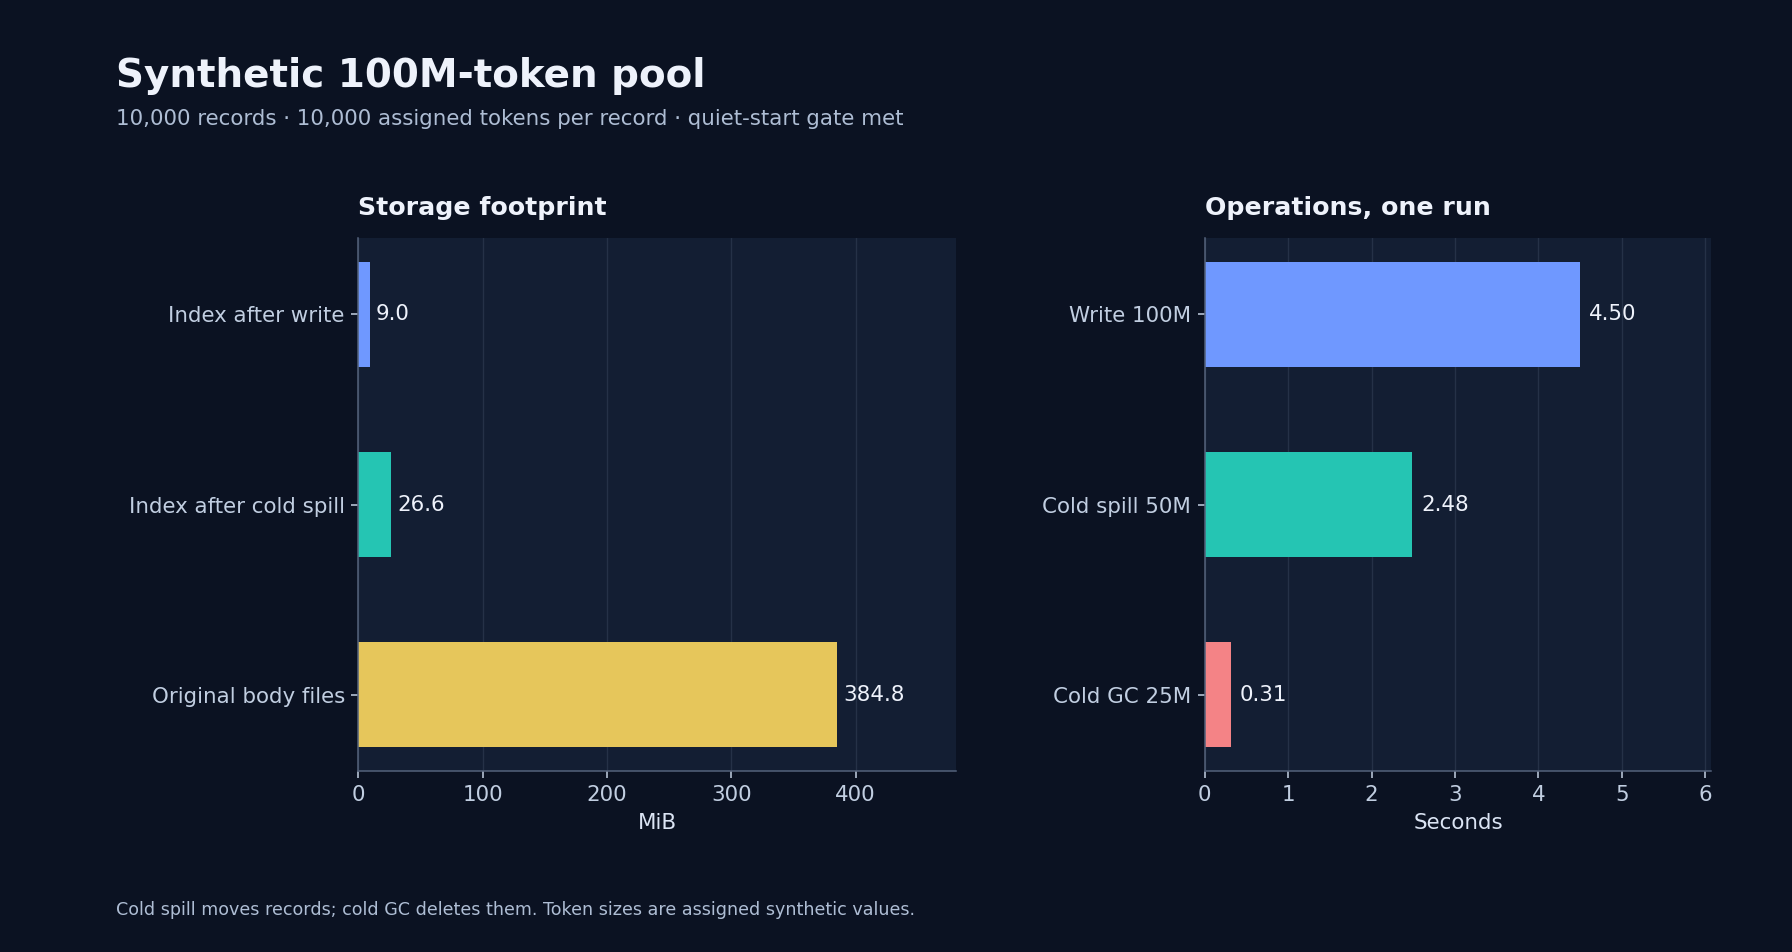
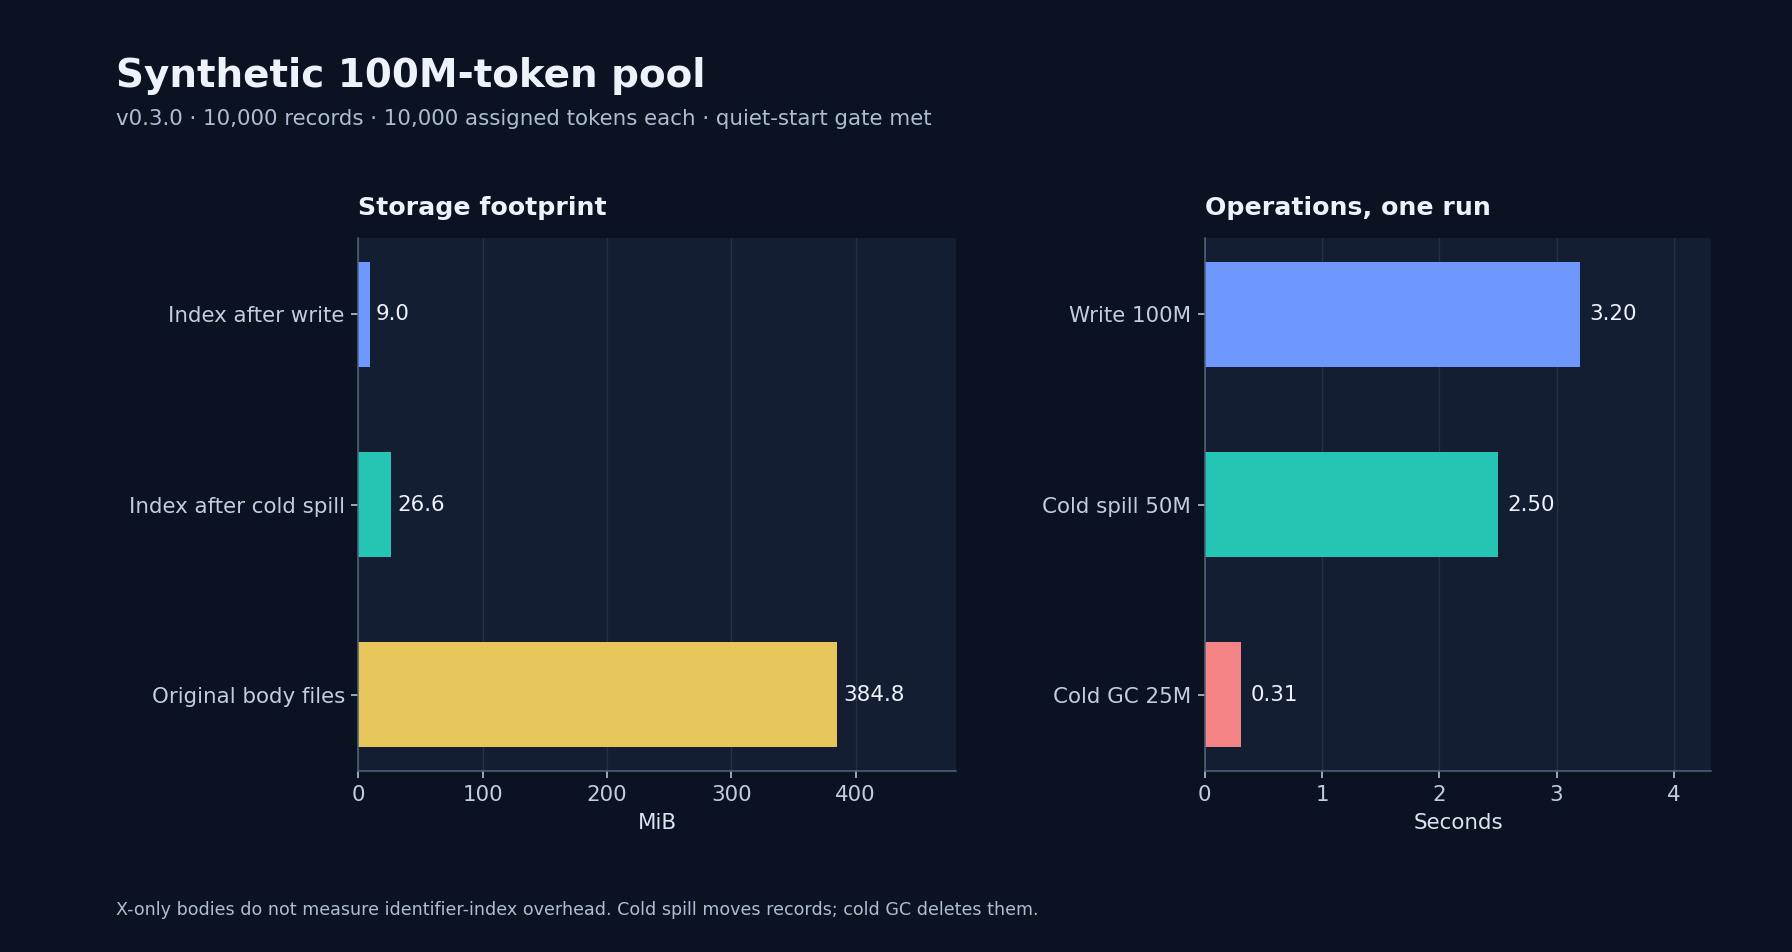
docs: rerun v0.3.0 benchmark under lower load

diff --git a/scripts/plot-benchmarks.py b/scripts/plot-benchmarks.py
@@ -146,7 +146,7 @@ save(fig, "cost-latency.png")
 
 # 100M-token synthetic pool: timed cold GC deletes the removed records.
 fig, axes = plt.subplots(1, 2, figsize=(12.8, 6.8), gridspec_kw={"width_ratios": [1.18, 1]})
-heading(fig, "Synthetic 100M-token pool", "10,000 records · 10,000 assigned tokens per record · quiet-start gate met")
+heading(fig, "Synthetic 100M-token pool", f"v{metadata['testedVersion']} · 10,000 records · 10,000 assigned tokens each · quiet-start gate met")
 fig.subplots_adjust(left=0.2, right=0.955, top=0.75, bottom=0.19, wspace=0.45)
 storage_names = ["Index after write", "Index after cold spill", "Original body files"]
 storage = [capacity["indexAfterWriteMiB"], capacity["indexAfterColdMiB"], capacity["bodyFilesMiB"]]
@@ -167,5 +167,5 @@ axes[1].set_xlim(0, max(operations) * 1.35)
 axes[1].set_xlabel("Seconds")
 for i, value in enumerate(operations):
     axes[1].text(value + max(operations) * 0.025, i, f"{value:.2f}", va="center", fontsize=11)
-footnote(fig, "Cold spill moves records; cold GC deletes them. Token sizes are assigned synthetic values.")
+footnote(fig, "X-only bodies do not measure identifier-index overhead. Cold spill moves records; cold GC deletes them.")
 save(fig, "capacity.png")

diff --git a/docs/benchmark.md b/docs/benchmark.md
@@ -3,29 +3,30 @@ title: Benchmark report
 layout: default
 ---
 
-# Benchmark report: synthetic long-horizon retrieval on v0.2.2
+# Benchmark report: synthetic long-horizon retrieval on v0.3.0
 
 This report reruns the published synthetic workloads against commit
-[`c4e2d38`](https://github.com/QiuXu-Tech/dsh-memory/commit/c4e2d381729e885c7d720713e325cc58938f4203)
+[`3373ec6`](https://github.com/QiuXu-Tech/dsh-memory/commit/3373ec6ed46ea3b571a798c95714bd5d226f1ddb)
 on 2026-10-29. The machine was an Apple M4 (10 logical CPUs, 16 GiB), running
 macOS 27.2 and Node 24.21.0. Before starting, two consecutive five-second
-samples met the quiet-start gate: CPU busy **14.6% / 14.7%** and one-minute
-load **9.96 / 9.24**. During the longer benchmark stages, six samples showed
-one-minute load **6.85–8.90** and CPU busy **22.2%–32.1%**, including the
+samples met the quiet-start gate: CPU busy **16.4% / 25.5%** and one-minute
+load **1.81 / 1.90**. During the longer benchmark stages, six samples showed
+one-minute load **2.39–3.49** and CPU busy **26.7%–36.8%**, including the
 benchmark itself. Sampling intervals can cross stage boundaries; short stages
 may have no dedicated sample. The machine was shared, not isolated. The
 [run metadata](assets/benchmarks/run-metadata.json) and
 [load samples](assets/benchmarks/results-load-samples.jsonl) record the method,
 tested commit and input hashes.
 
-The execution checkout was `41b47e4`, a report-only descendant of v0.2.2;
-its package and test trees and the three benchmark scripts matched `c4e2d38`.
-GitHub `main` advanced to v0.3.0 during this work; these measurements do not
-evaluate v0.3.0.
+The execution checkout was `8d5a6f2`, a report-only descendant of v0.3.0;
+its package and test trees and the three benchmark scripts matched `3373ec6`.
+GitHub `main` advanced to v0.3.1 during this work; these measurements do not
+evaluate v0.3.1.
 
-The earlier [v0.2.1 report and its high-load measurements](https://github.com/QiuXu-Tech/dsh-memory/blob/41b47e43f0f58b6d46dfe1cfe7baae1630c6a242/docs/benchmark.md)
-remain in Git history. The two runs were not conducted under comparable load,
-so their timing differences do not establish a version performance change.
+The earlier [v0.2.1 report](https://github.com/QiuXu-Tech/dsh-memory/blob/41b47e43f0f58b6d46dfe1cfe7baae1630c6a242/docs/benchmark.md)
+and [v0.2.2 report](https://github.com/QiuXu-Tech/dsh-memory/blob/8d5a6f2a93da5b838ef60f1a21853f4e388b62b5/docs/benchmark.md)
+remain in Git history. These were separate shared-machine runs, so their timing
+differences alone do not establish a version performance change.
 
 **Result in brief:** in a synthetic 160K-token history with an 80K-token
 window, 20/40 target facts were present in the retained tail and 24/40 were
@@ -69,9 +70,9 @@ one simulated baseline, not a run of DSH's native compaction implementation.
 
 | Estimated history | Records | Window / history | Search hit@5, both runs | Search p50, first / repeat |
 |---|---:|---:|---:|---:|
-| 1,000,811 tokens | 667 | 99.9% | 40/40 (100%) | 1.33 / 1.33 ms |
-| 5,004,369 tokens | 3,333 | 20.0% | 40/40 (100%) | 13.32 / 13.28 ms |
-| 10,011,439 tokens | 6,667 | 10.0% | 40/40 (100%) | 27.89 / 27.63 ms |
+| 1,000,811 tokens | 667 | 99.9% | 40/40 (100%) | 1.63 / 1.65 ms |
+| 5,004,369 tokens | 3,333 | 20.0% | 40/40 (100%) | 15.74 / 15.62 ms |
+| 10,011,439 tokens | 6,667 | 10.0% | 40/40 (100%) | 33.00 / 31.36 ms |
 
 The window/history column is an arithmetic coverage ratio, not measured
 no-memory recall and not a universal ceiling. Actual availability depends on
@@ -83,8 +84,8 @@ answers correctly.
 
 ![Search medians at three scales and two repeated 160K runs](assets/benchmarks/cost-latency.png)
 
-The 160K comparison's search p50 was **1.20 ms** on the first run and
-**1.18 ms** on a repeat with the same fixture and supplied summary. Each p50 is
+The 160K comparison's search p50 was **1.78 ms** on the first run and
+**1.73 ms** on a repeat with the same fixture and supplied summary. Each p50 is
 the median of 40 searches. The scaling sweep was also repeated; two runs on a
 shared machine are not enough to establish a latency distribution or
 production performance.
@@ -107,14 +108,20 @@ corpus. The two runs use different cold target ratios to reproduce the prior
 
 | Pool | Write | Cold spill | Cold GC |
 |---|---:|---:|---:|
-| 1,000 records / 10M assigned tokens | 0.4 s | 700 records / 7M tokens in 0.32 s | 350 records / 3.5M tokens in 0.03 s |
-| 10,000 records / 100M assigned tokens | 4.5 s | 5,000 records / 50M tokens in 2.48 s | 2,500 records / 25M tokens in 0.31 s |
+| 1,000 records / 10M assigned tokens | 0.4 s | 700 records / 7M tokens in 0.33 s | 350 records / 3.5M tokens in 0.03 s |
+| 10,000 records / 100M assigned tokens | 3.2 s | 5,000 records / 50M tokens in 2.50 s | 2,500 records / 25M tokens in 0.31 s |
 
 In the 100M run, the SQLite index was 9.0 MiB after writing and 26.6 MiB after
 cold spill; the original body files totalled 384.8 MiB. Cold spill moves the
 records, while **cold GC deletes** the records it removes. Both were exercised
 only on throwaway stores. These are single-run times under the sampled load
 noted above.
+
+The fixture's bodies consist only of repeated `x` characters. A separate
+[one-record spot check](assets/benchmarks/results-body-index-probe.json)
+produced zero `record_terms` rows for that body. These capacity and index-size
+figures therefore do not measure the overhead of indexing identifier-bearing
+real-world bodies introduced in v0.3.0.
 
 ## 5. Complementary recall suite
 
@@ -128,18 +135,22 @@ The earlier 95% hit@5 figure came from a private, curated 40-question archive.
 It was **not rerun** here and cannot be independently reproduced from the
 public fixtures. See [evaluation](https://github.com/QiuXu-Tech/dsh-memory/blob/main/docs/evaluation.md) for its historical context.
 
+The v0.3.0 offline harness also passed [U13](https://github.com/QiuXu-Tech/dsh-memory/blob/3373ec6ed46ea3b571a798c95714bd5d226f1ddb/test/run.mjs#L3849),
+a separate hot-body identifier-rescue test. Its assertions require at least
+24/30 hit@1 and 27/30 hit@5 and check identifier boundaries; the actual counts
+are not printed, and this is not a latency benchmark.
+
 ## Scope and limitations
 
 - All measured searches here call `LocalStoreCore` with default rerank
-  weights. They do not benchmark v0.2.2's model-specific `AgentMemory`
+  weights. They do not benchmark v0.3.0's model-specific `AgentMemory`
   profiles, MCP/DSH integration, transcript capture, or an agent's end-to-end
   answers. The offline tests cover some of those code paths but are not an
   agent benchmark.
 - Exact synthetic cues and prefilled card summaries make these retrieval
   probes easier to locate than many real project questions. The results do not
   establish recall on paraphrases, multi-hop tasks, or missing cues. The
-  separate [body-only retrieval findings documented in v0.2.2](https://github.com/QiuXu-Tech/dsh-memory/blob/c4e2d381729e885c7d720713e325cc58938f4203/docs/optimization-findings.md)
-  were not rerun by this benchmark.
+  long-horizon fixture itself does not isolate the new hot-body rescue path.
 - Timings were collected on a shared machine after the quiet-start gate, with
   five-second load samples during longer stages; this is not full isolation.
   The capacity script prints a `p95` from
@@ -156,9 +167,9 @@ remove throwaway stores. The summary must be passed explicitly for the
 comparison.
 
 ```bash
-git clone https://github.com/QiuXu-Tech/dsh-memory.git dsh-memory-benchmark-v022
-cd dsh-memory-benchmark-v022
-git checkout --detach c4e2d381729e885c7d720713e325cc58938f4203
+git clone https://github.com/QiuXu-Tech/dsh-memory.git dsh-memory-benchmark-v030
+cd dsh-memory-benchmark-v030
+git checkout --detach 3373ec6ed46ea3b571a798c95714bd5d226f1ddb
 out_dir="$(mktemp -d "${TMPDIR:-/tmp}/dsh-benchmark.XXXXXX")"
 node --import ./test/register.mjs scripts/long-horizon-eval.mjs --mode compaction \
   --tokens 160000 --window 80000 --summary docs/assets/benchmarks/compaction-summary.txt \

diff --git a/README.md b/README.md
@@ -15,7 +15,7 @@ It started as a [DeepSeek Harness](https://github.com/deepseek-ai) plugin and is
 | **Gemini CLI, Cursor, Cline, Windsurf, Zed, …** | one stdio MCP server (`packages/dsh-memory-mcp`), 7 tools + catalog resource |
 | **Any HTTP agent** | the same core can be embedded (`@qiuxu/dsh-memory-core`) |
 
-> Status: **0.3.0** — agent-agnostic core, MCP server, hot-body rescue, Claude Code/Codex adapters, **13 model families** (Claude / GPT / Gemini / DeepSeek / Qwen / Kimi / GLM / Grok / Command / Gemma / Phi / Llama / generic), 112/112 offline tests. DSH `0.2.1-rc.3` for DSH mode; any MCP-capable agent otherwise. No telemetry, everything stays on your machine.
+> Status: **0.3.1** — agent-agnostic core, MCP server, hot-body rescue, Claude Code/Codex adapters, **13 model families** (Claude / GPT / Gemini / DeepSeek / Qwen / Kimi / GLM / Grok / Command / Gemma / Phi / Llama / generic), 112/112 offline tests. DSH `0.2.1-rc.3` for DSH mode; any MCP-capable agent otherwise. No telemetry, everything stays on your machine.
 
 ## Why
 
@@ -166,11 +166,11 @@ HTTP API: `GET /api/memory.index|record|search|metrics`, `POST /api/memory.statu
 | Metric | Result |
 |---|---|
 | Historical private archive (40 curated questions; not rerun) | reported hit@5 **95%** (baseline 67%); not reproducible from the public fixture |
-| Synthetic recall suite (v0.2.2 rerun) | 80/80 target-record hits at rank 1 |
-| 10k records / 100M assigned tokens (v0.2.2, synthetic, quiet-start gate) | write 4.5 s; cold spill 5,000 records/50M tokens in 2.48 s; cold GC 2,500 records/25M tokens in 0.31 s |
-| FTS storage (body-less card+abstract index) | Synthetic v0.2.2 100M-token pool: 9.0 MiB after writing, 26.6 MiB after cold spill |
+| Synthetic recall suite (v0.3.0 rerun) | 80/80 target-record hits at rank 1 |
+| 10k records / 100M assigned tokens (v0.3.0, synthetic, quiet-start gate) | write 3.2 s; cold spill 5,000 records/50M tokens in 2.50 s; cold GC 2,500 records/25M tokens in 0.31 s |
+| FTS storage (body-less card+abstract index) | Synthetic v0.3.0 100M-token pool: 9.0 MiB after writing, 26.6 MiB after cold spill; x-only bodies do not measure identifier-index overhead |
 
-**Synthetic 160K history / 80K window, on v0.2.2:** the retained tail made 20/40 target facts available; the previously supplied summary plus tail made 24/40 available. dsh-memory search returned the target record for 40/40 probes. These are availability and retrieval checks, not end-to-end answer accuracy. Full charts, timing conditions and methodology: **[docs/benchmark.md](docs/benchmark.md)**. Recent experiments and the optimization backlog: [docs/optimization-findings.md](docs/optimization-findings.md).
+**Synthetic 160K history / 80K window, on v0.3.0:** the retained tail made 20/40 target facts available; the previously supplied summary plus tail made 24/40 available. dsh-memory search returned the target record for 40/40 probes. These are availability and retrieval checks, not end-to-end answer accuracy. Full charts, timing conditions and methodology: **[docs/benchmark.md](docs/benchmark.md)**. Recent experiments and the optimization backlog: [docs/optimization-findings.md](docs/optimization-findings.md).
 
 Reproduction commands, including the required saved summary and cold target ratios, are in [docs/benchmark.md](docs/benchmark.md). Additional context is in [docs/evaluation.md](docs/evaluation.md).
 

diff --git a/docs/evaluation.md b/docs/evaluation.md
@@ -5,8 +5,8 @@ layout: default
 
 # Evaluation
 
-The public synthetic workloads were rerun on v0.2.2, commit
-[`c4e2d38`](https://github.com/QiuXu-Tech/dsh-memory/commit/c4e2d381729e885c7d720713e325cc58938f4203),
+The public synthetic workloads were rerun on v0.3.0, commit
+[`3373ec6`](https://github.com/QiuXu-Tech/dsh-memory/commit/3373ec6ed46ea3b571a798c95714bd5d226f1ddb),
 on 2026-10-29. The Apple M4 / Node 24.21.0 machine met a quiet-start gate;
 it remained shared and load was sampled during the longer stages. See the
 [benchmark report](https://github.com/QiuXu-Tech/dsh-memory/blob/main/docs/benchmark.md)
@@ -29,20 +29,22 @@ contains a cold record, so it is not evidence of cold-record retrieval.
 A previous run against a private, curated 40-question archive reported hit@1
 73%, hit@3/hit@5 95%, cold recall 100%, and search p50 1.3 ms; a prior
 baseline was reported as 67% hit@5. That archive and its raw probes are not
-public, and the run was **not repeated** for v0.2.2. These historical numbers
+public, and the run was **not repeated** for v0.3.0. These historical numbers
 cannot be independently reproduced using the public fixture.
 
 ## Capacity and storage
 
 | Synthetic pool | Write | Cold spill | Cold GC |
 |---|---:|---:|---:|
-| 1,000 records / 10M assigned tokens | 0.4 s | 700 records / 7M in 0.32 s | 350 records / 3.5M in 0.03 s |
-| 10,000 records / 100M assigned tokens | 4.5 s | 5,000 records / 50M in 2.48 s | 2,500 records / 25M in 0.31 s |
+| 1,000 records / 10M assigned tokens | 0.4 s | 700 records / 7M in 0.33 s | 350 records / 3.5M in 0.03 s |
+| 10,000 records / 100M assigned tokens | 3.2 s | 5,000 records / 50M in 2.50 s | 2,500 records / 25M in 0.31 s |
 
 The 100M run used 384.8 MiB of original body files and a 9.0 MiB SQLite index
 after writing, growing to 26.6 MiB after cold spill. Token counts are assigned
-synthetic values. Cold GC deletes the removed records. The read-path timings
-and raw output are included in the [benchmark report](https://github.com/QiuXu-Tech/dsh-memory/blob/main/docs/benchmark.md).
+synthetic values. The x-only bodies do not measure identifier-body index
+overhead; a one-record spot check produced zero `record_terms` rows. Cold GC
+deletes the removed records. The read-path timings and raw output are included
+in the [benchmark report](https://github.com/QiuXu-Tech/dsh-memory/blob/main/docs/benchmark.md).
 
 An older private 1.9M-token archive was reported to shrink from 18.19 MB to
 0.25 MB after the body-less FTS migration and `VACUUM`. That migration was not
@@ -57,6 +59,6 @@ current public-fixture measurement.
 - The capacity helper's printed `p95` is based on five samples and selects the
   second-largest value. It is not a reliable 95th percentile. This rerun does
   not establish that the former `p95 < 50 ms` target is met.
-- The offline harness passed 110/110 tests at the tested commit after building
+- The offline harness passed 112/112 tests at the tested commit after building
   the bundle; this validates its test cases, not production or real-agent
   performance.
